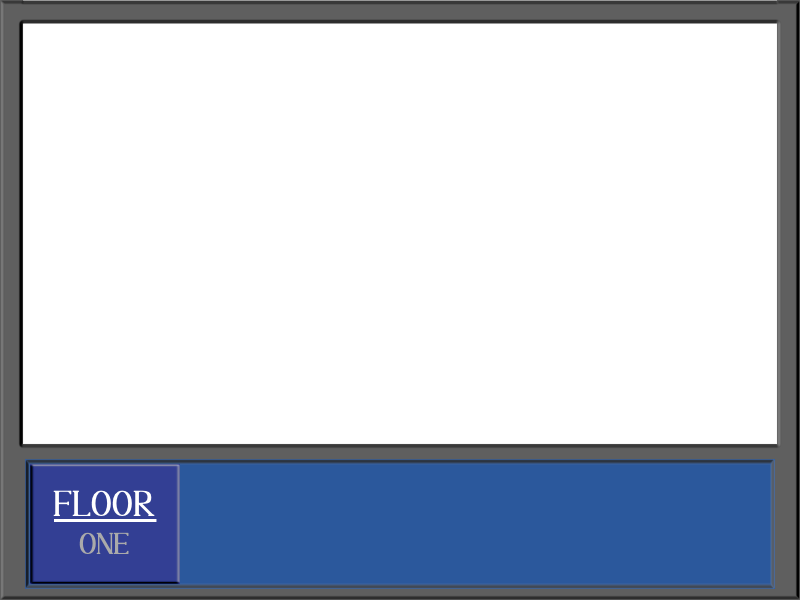
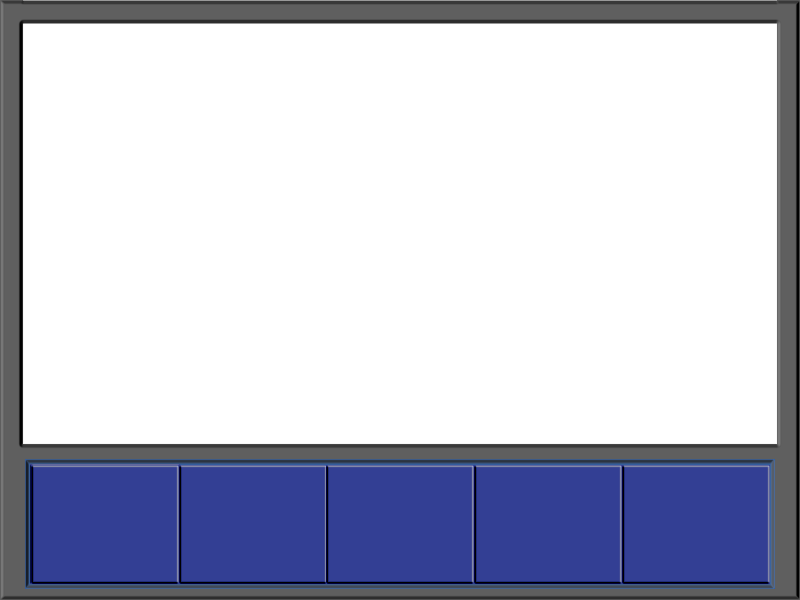
new hud

Changed region(s): [[0.0625, 0.75, 0.9688, 0.99], [0.0625, 0.81, 0.1875, 0.93]]

diff --git a/game.py b/game.py
@@ -1,6 +1,7 @@
 from mapgen import *
 import pygame
 import math
+import time
 
 TEMP_WALL = [0, 2, 3, 4]
 
@@ -25,7 +26,13 @@ running = True
 pygame.init()
 pygame.font.init()
 
-font = pygame.font.Font("almendra/Almendra-Regular.ttf", 50)
+FONTS = {
+    'floor': pygame.font.Font("almendra/Almendra-Regular.ttf", 40),
+    'floor_n': pygame.font.Font("almendra/Almendra-Regular.ttf", 40),
+    'timer': pygame.font.Font("almendra/Almendra-Regular.ttf", 40),
+    'health': pygame.font.Font("almendra/Almendra-Regular.ttf", 40)
+}
+
 
 clock = pygame.time.Clock()
 display = pygame.display.set_mode((WIDTH, HEIGHT))
@@ -388,10 +395,18 @@ def render_hud(delta):
 
     y_pos = (y_pos // quantization_step) * quantization_step
     display.blit(hud, (0, 0))
-    display.blit(arrow, (0, y_pos))
+    display.blit(arrow, (0, 20 + y_pos))
 
-    #timer = font.render("Hello World!", True, (255, 255, 255))
-    #display.blit(timer, (40, 250))
+    floor_title = FONTS['floor'].render("FLOOR", True, (255, 255, 255))
+    timer_title = FONTS['timer'].render("TIMER", True, (255, 255, 255))
+    floor_counter = FONTS['floor_n'].render("1", True, (200, 200, 200))
+    timer_counter = FONTS['floor_n'].render(f"0:00", True, (200, 200, 200))
+    now = pygame.time.get_ticks()
+
+    display.blit(floor_title, (48.5, 475))
+    display.blit(timer_title, (195.5, 475))
+    display.blit(floor_counter, (98.5, 520))
+    display.blit(timer_counter, (220, 520))
 
 
 def render_weapon(delta):
@@ -482,7 +497,6 @@ def hitscan_fire(range):
 
 def check_player_sprite_collision(player_x, player_y):
     for sprite in sprites:
-
         if not sprite.solid:
             continue  
         sprite_x, sprite_y = sprite.coords
@@ -578,6 +592,7 @@ def init():
     global running
 
     frames = 0
+
 
     load_level()
 
